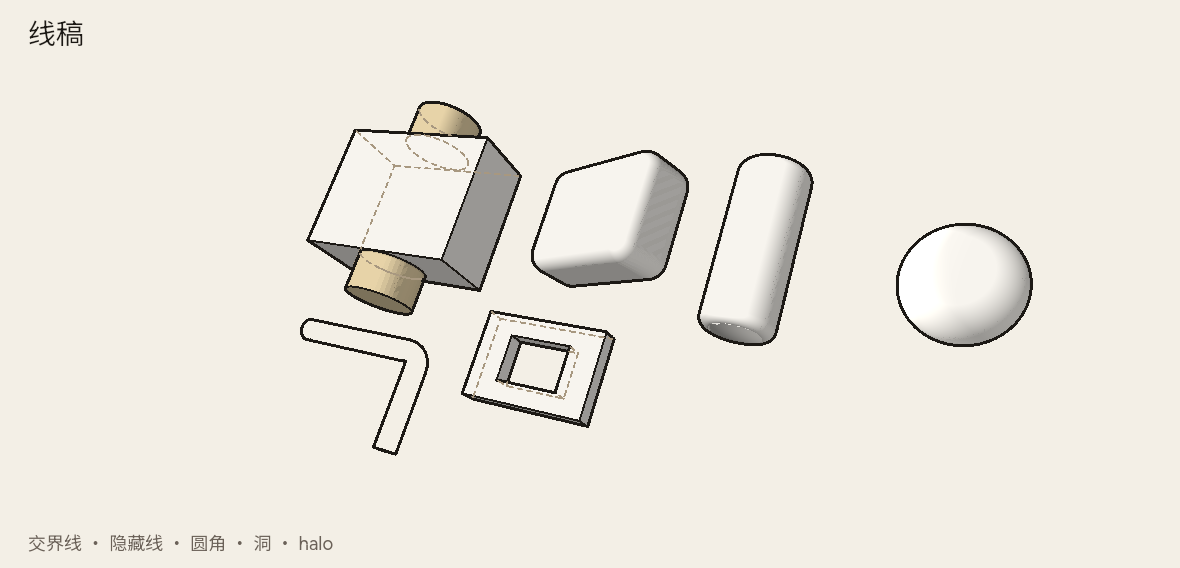
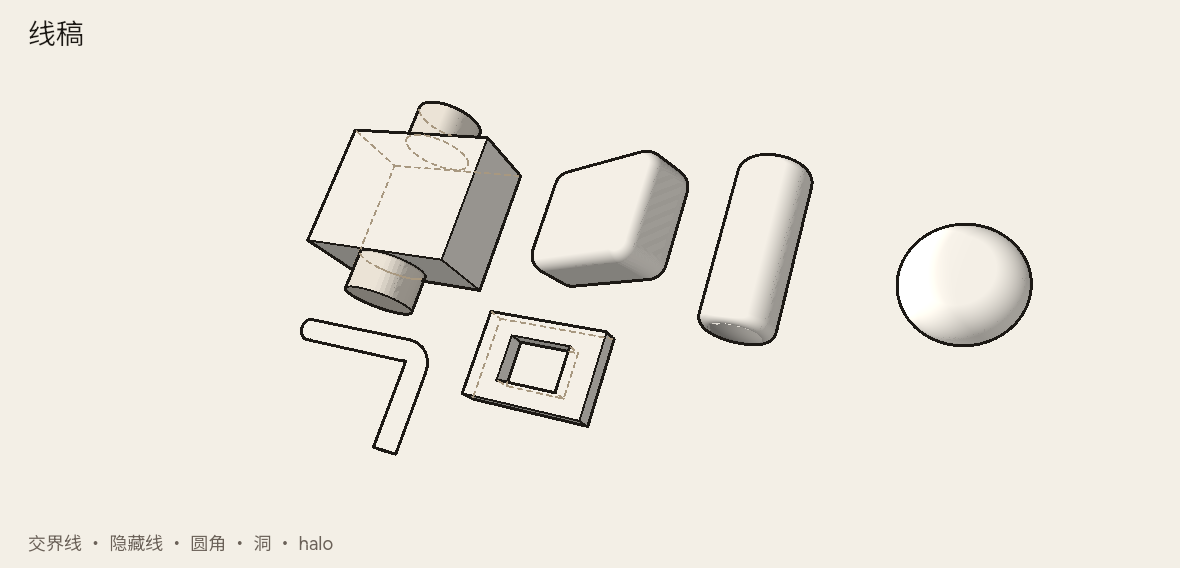
QUALITY-6 rest5b: seat side-camera blue-float; matte lines fills
Side orbit no longer hangs the blue sphere. Technical lines plate
uses matte cream so shading does not read as brushed banding.

Changed region(s): [[0.2746, 0.419, 0.3661, 0.5387], [0.3356, 0.1796, 0.4271, 0.2394]]

diff --git a/scripts/gallery-3d.ts b/scripts/gallery-3d.ts
@@ -304,15 +304,16 @@ function lines(): string {
   // plate, and a tube that crosses another body so halo / crossings are
   // visible. Framing keeps left/right empty ≤ 15% and empty-below ≤ 25%.
   // Technical shading avoids studio specular blow-past of overexposureMax.
+  // Rest5b: matte cream fills — bare fill read as brushed diagonal banding for A.
   return `<layer width="1180" height="516" camera="fov 36, orbit 28 18, distance 1060, at 560 310 0" shading="technical">
     <layer x="40" y="20" width="1100" height="580" rotateX="38" preserve-3d>
-      <rect id="box" x="40" y="70" width="260" height="200" depth="110" fill="#f7f4ee" stroke="#1c1915" stroke-width="3 2 1.9" hidden="#a89880" />
-      <cylinder id="piercing" cx="170" cy="170" r="52" height="320" fill="#e7d3a8" stroke="#1c1915" stroke-width="3 2 1.9" hidden="#a89880" />
-      <rect id="round-box" x="400" y="80" width="210" height="160" depth="96" rx="26" fill="#f7f4ee" stroke="#1c1915" stroke-width="3 2 1.9" hidden="#a89880" rotateY="-26" />
-      <cylinder id="rim" cx="720" cy="175" r="48" height="230" rx="14" fill="#f7f4ee" stroke="#1c1915" stroke-width="3 2 1.9" hidden="#a89880" />
-      <sphere id="ball" cx="960" cy="190" r="68" fill="#f7f4ee" stroke="#1c1915" stroke-width="3 2 1.9" hidden="#a89880" />
+      <rect id="box" x="40" y="70" width="260" height="200" depth="110" fill="#f4efe6" material="matte" stroke="#1c1915" stroke-width="3 2 1.9" hidden="#a89880" />
+      <cylinder id="piercing" cx="170" cy="170" r="52" height="320" fill="#ebe3d6" material="matte" stroke="#1c1915" stroke-width="3 2 1.9" hidden="#a89880" />
+      <rect id="round-box" x="400" y="80" width="210" height="160" depth="96" rx="26" fill="#f4efe6" material="matte" stroke="#1c1915" stroke-width="3 2 1.9" hidden="#a89880" rotateY="-26" />
+      <cylinder id="rim" cx="720" cy="175" r="48" height="230" rx="14" fill="#f4efe6" material="matte" stroke="#1c1915" stroke-width="3 2 1.9" hidden="#a89880" />
+      <sphere id="ball" cx="960" cy="190" r="68" fill="#f4efe6" material="matte" stroke="#1c1915" stroke-width="3 2 1.9" hidden="#a89880" />
       <layer x="380" y="320">
-        <path id="hole-plate" d="M0 0 H180 V120 H0 Z M45 28 V92 H135 V28 Z" depth="28" fill="#f7f4ee" stroke="#1c1915" stroke-width="3 2 1.9" hidden="#a89880" />
+        <path id="hole-plate" d="M0 0 H180 V120 H0 Z M45 28 V92 H135 V28 Z" depth="28" fill="#f4efe6" material="matte" stroke="#1c1915" stroke-width="3 2 1.9" hidden="#a89880" />
       </layer>
       <tube id="elbow" x="60" y="380" d="M0 16 H220 V160" r="16" fill="none" stroke="#1c1915" stroke-width="3 2 1.9" halo="8" />
     </layer>
@@ -418,10 +419,20 @@ function buildPlates(): { sheet: string; title: string; cols: number; cells: Pla
     { label: 'orbit 62 22', camera: 'fov 30, orbit 62 22, distance 1040, at 550 580 0', file: 'side' },
     { label: 'aperture 14', camera: `${BENCH_CAMERA}, aperture 14`, file: 'dof' },
   ]
-  const cameraCells = cameras.map((item) => ({
-    name: `3d-cam-${item.file}`,
-    source: cell(item.label, bench(item.camera), BENCH_W, BENCH_H, '#4a453e'),
-  }))
+  const cameraCells = cameras.map((item) => {
+    let body = bench(item.camera)
+    // Rest5b: B side orbit (62 22) read blue-float as hanging with no contact.
+    if (item.file === 'side') {
+      body = body.replace(
+        '<sphere id="blue-float" cx="160" cy="200" r="34" z="140" fill="#2a6fbe" material="plastic 0.42" />',
+        '<sphere id="blue-float" cx="165" cy="118" r="34" z="50" fill="#2a6fbe" material="plastic 0.42" />',
+      )
+    }
+    return {
+      name: `3d-cam-${item.file}`,
+      source: cell(item.label, body, BENCH_W, BENCH_H, '#4a453e'),
+    }
+  })
   const linesPlate: Plate = {
     name: '3d-lines',
     source: page({
